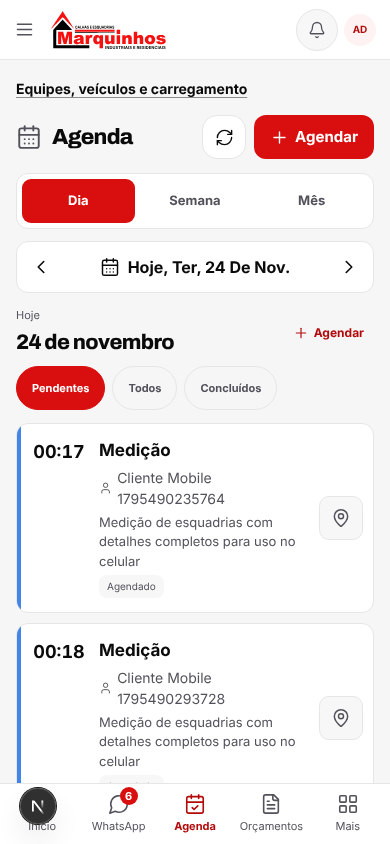
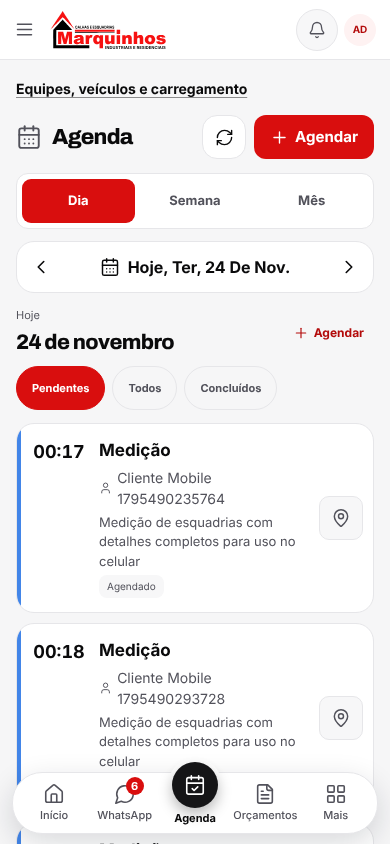
feat(ux): painel de destaque no Início e barra inferior flutuante no celular
- Início: painel escuro arredondado com saudação, vendas do mês, barras dos últimos 6 meses (dados reais) e dois atalhos em pílula
- barra inferior flutuante em pílula com o item ativo em círculo escuro e selo de não lidas
- cartões e blocos com cantos maiores; 'Ver tudo' em pílula
- ajustes: responder só ao passar o mouse/tocar, número do orçamento sem quebra, sem overflow a 320 px
Mantém logo original, fundo branco e vermelho da marca.

Claude-Session: https://claude.ai/code/session_019r53HgSe1yoioPFHkHVqRt

Changed region(s): [[0.0308, 0.8934, 0.9846, 1.0]]

diff --git a/app/mobile.css b/app/mobile.css
@@ -229,14 +229,14 @@
  .mobile-home .mh-date { margin: 4px 0 16px; color: var(--text-muted); font-size: 16px; }
  .mh-kpis { display: grid; grid-template-columns: repeat(2,minmax(0,1fr)); gap: 10px; }
  .mh-kpi { display: flex; align-items: center; gap: 8px; min-width: 0; padding: 10px; border: 1px solid var(--border); border-radius: 14px; background: var(--surface); }
- .mh-kpi-icon { display: inline-flex; align-items: center; justify-content: center; width: 40px; height: 40px; border-radius: 12px; flex-shrink: 0; }
+ .mh-kpi-icon { display: inline-flex; align-items: center; justify-content: center; width: 38px; height: 38px; border-radius: 12px; flex-shrink: 0; }
  .mh-kpi-icon[data-tone=success] { background: var(--success-soft); color: var(--success-text); }
  .mh-kpi-icon[data-tone=info] { background: var(--info-soft); color: var(--info-text); }
  .mh-kpi-icon[data-tone=warning] { background: var(--warning-soft); color: var(--warning-text); }
  .mh-kpi-icon[data-tone=violet] { background: #F0EBFF; color: #5B3FB5; }
  .mh-kpi-text { display: flex; flex-direction: column; min-width: 0; line-height: 1.2; }
  .mh-kpi-text small { font-size: 13px; color: var(--text); font-weight: 500; }
- .mh-kpi-text strong { font-size: clamp(16px,4.7vw,19px); font-weight: 800; letter-spacing: -.02em; font-variant-numeric: tabular-nums; white-space: nowrap; overflow: hidden; text-overflow: ellipsis; }
+ .mh-kpi-text strong { font-size: clamp(15px,4.4vw,17px); font-weight: 800; letter-spacing: -.02em; font-variant-numeric: tabular-nums; white-space: nowrap; overflow: hidden; text-overflow: ellipsis; }
  .mh-kpi-text em { font-style: normal; font-size: 12px; color: var(--text-muted); white-space: nowrap; overflow: hidden; text-overflow: ellipsis; }
  .mh-title { display: flex; align-items: center; gap: 8px; margin: 22px 0 10px; font-size: 18px; font-weight: 700; letter-spacing: -.01em; }
  .mh-title svg { color: var(--text-muted); }
@@ -318,4 +318,56 @@
 @media screen and (max-width: 767px) {
  .mh-list > li, .mh-event { min-width: 0; max-width: 100%; }
  .mh-kpis > a, .mh-actions > a, .mh-stages > a { min-width: 0; }
+}
+
+/* ===== Estilo "app": painel de destaque escuro, cartões bem arredondados e barra inferior flutuante ===== */
+@media screen and (max-width: 767px) {
+ /* Painel de destaque do Início */
+ .mh-hero { margin: -18px -16px 18px; padding: 20px 16px 16px; border-radius: 0 0 28px 28px; color: #fff; background: linear-gradient(180deg, #2a2b2e 0%, #151517 100%); }
+ .mobile-home .mh-hero .mh-greeting { font-size: 22px; line-height: 28px; font-weight: 700; color: #fff; }
+ .mobile-home .mh-hero .mh-date { margin: 2px 0 16px; font-size: 14px; color: rgb(255 255 255 / .62); }
+ .mh-hero-label { font-size: 13px; line-height: 18px; color: rgb(255 255 255 / .62); }
+ .mh-hero-value { margin-top: 2px; font-size: 34px; line-height: 40px; font-weight: 800; letter-spacing: -.03em; font-variant-numeric: tabular-nums; }
+ .mh-hero-note { margin-top: 4px; font-size: 13px; line-height: 18px; color: rgb(255 255 255 / .62); }
+ .mh-bars { display: flex; align-items: flex-end; gap: 10px; height: 104px; margin: 16px 0 4px; }
+ .mh-bar-col { flex: 1; min-width: 0; height: 100%; display: flex; flex-direction: column; align-items: center; justify-content: flex-end; gap: 6px; }
+ .mh-bar-col > i { display: block; width: 100%; max-width: 28px; min-height: 6px; border-radius: 8px; background: rgb(255 255 255 / .28); }
+ .mh-bar-col[data-current=true] > i { background: var(--brand); }
+ .mh-bar-col > span { font-size: 11px; line-height: 14px; color: rgb(255 255 255 / .55); }
+ .mh-hero-actions { display: grid; grid-template-columns: 1fr 1fr; gap: 10px; margin-top: 16px; }
+ .mh-pill { display: inline-flex; align-items: center; justify-content: center; gap: 8px; min-height: 48px; padding: 0 12px; border-radius: 999px; background: #fff; color: #151517; font-size: 14px; font-weight: 700; white-space: nowrap; }
+ .mh-pill.is-primary { background: var(--brand); color: #fff; }
+
+ /* Cartões e blocos mais arredondados */
+ .app-content .card { border-radius: 20px; }
+ .mh-kpi, .mh-event, .mh-actions a, .mh-stages a { border-radius: 18px; }
+ .mh-kpi-icon { border-radius: 14px; }
+ .mh-section-head > a { padding: 0 14px; min-height: 36px; border: 1px solid var(--border); border-radius: 999px; background: var(--surface); font-size: 13px; }
+ .mobile-quote-workspace .quote-list-row, .mobile-appointment, .mobile-date-nav, .mobile-calendar { border-radius: 18px; }
+ .quote-row-icon { border-radius: 14px; }
+
+ /* Barra inferior flutuante, com o item ativo em círculo */
+ .mobile-bottom-bar { left: 12px; right: 12px; bottom: calc(10px + env(safe-area-inset-bottom)); height: 62px; padding: 4px 6px; border: 1px solid var(--border); border-radius: 30px; background: var(--surface); box-shadow: 0 10px 30px rgb(16 24 40 / .16); }
+ .mobile-bottom-bar a, .mobile-bottom-bar button { height: 54px; font-size: 11px; font-weight: 500; gap: 2px; }
+ .mobile-bottom-bar a[aria-current=page], .mobile-bottom-bar button[aria-expanded=true] { color: var(--text); font-weight: 700; }
+ .mobile-bottom-bar a[aria-current=page] .mobile-tab-icon { width: 46px; height: 46px; margin-top: -22px; border-radius: 50%; align-items: center; justify-content: center; background: #151517; color: #fff; box-shadow: 0 6px 14px rgb(0 0 0 / .28), 0 0 0 4px var(--surface); }
+ .mobile-bottom-bar a[aria-current=page] { justify-content: flex-end; padding-bottom: 4px; }
+ .app-content { padding-bottom: calc(100px + env(safe-area-inset-bottom)); }
+ .app-content > .mobile-inbox { height: calc(100dvh - 140px - env(safe-area-inset-bottom)); margin-bottom: calc(-100px - env(safe-area-inset-bottom)); }
+ .app-shell-root:has([data-chat-open=true]) .app-content > .mobile-inbox { margin-bottom: calc(-100px - env(safe-area-inset-bottom)); }
+ .quote-save-bar { bottom: calc(82px + env(safe-area-inset-bottom)); border-radius: 20px 20px 0 0; }
+ .app-content:has(.quote-save-bar) { padding-bottom: calc(176px + env(safe-area-inset-bottom)); }
+}
+@media screen and (max-width: 767px) {
+ .quote-row-number { white-space: nowrap; }
+ .quote-row-total { font-size: 15px; white-space: nowrap; }
+}
+@media screen and (max-width: 767px) {
+ .mh-hero-actions > .mh-pill { min-width: 0; padding: 0 10px; }
+ .mh-hero-value { overflow-wrap: anywhere; }
+}
+@media screen and (max-width: 359px) {
+ .mh-pill { font-size: 13px; gap: 0; white-space: normal; line-height: 1.15; text-align: center; }
+ .mh-pill svg { display: none; }
+ .mh-hero-value { font-size: 30px; }
 }

diff --git a/components/mobile-home.tsx b/components/mobile-home.tsx
@@ -6,6 +6,7 @@ import { CalendarCheck, CalendarPlus, ChevronRight, CircleDollarSign, FileText, 
 type TodayEvent = { id: string; source?: AgendaSource; title: string; starts_at: string; event_type: string; client_name?: string };
 export type MobileHomeProps = {
   name: string; greeting: string; dateLabel: string;
+  hero: { label: string; value: string; note: string; bars: { label: string; value: number; current: boolean }[] };
   kpis: { quotes: number; orders: number; today: number; receivable: string | null; receivableNote: string; leads: number };
   today: TodayEvent[];
   stages: { measure: number; production: number; install: number; done: number } | null;
@@ -15,7 +16,8 @@ const hhmm = (iso: string) => new Date(iso).toLocaleTimeString("pt-BR", { hour: 
 const TYPE: Record<string, string> = { medicao: "Medição", instalacao: "Instalação", visita: "Visita", reuniao: "Reunião", entrega: "Entrega" };
 
 /** Início no celular, na organização das referências: saudação, 4 indicadores, ações rápidas, agenda de hoje e pedidos em andamento. */
-export function MobileHome({ name, greeting, dateLabel, kpis, today, stages }: MobileHomeProps) {
+export function MobileHome({ name, greeting, dateLabel, hero, kpis, today, stages }: MobileHomeProps) {
+  const top = Math.max(1, ...hero.bars.map(b => b.value));
   const tiles = [
     { label: "Orçamentos", value: String(kpis.quotes), note: "pendentes", Icon: FileText, tone: "success", href: "/orcamentos" },
     { label: "Pedidos", value: String(kpis.orders), note: "em andamento", Icon: ShoppingCart, tone: "info", href: "/pedidos" },
@@ -32,8 +34,27 @@ export function MobileHome({ name, greeting, dateLabel, kpis, today, stages }: M
   ];
   return (
     <div className="mobile-only mobile-home">
-      <h1 className="mh-greeting">{greeting}, {name}</h1>
-      <p className="mh-date">{dateLabel}</p>
+      <section className="mh-hero" aria-label="Resumo do mês">
+        <h1 className="mh-greeting">{greeting}, {name}</h1>
+        <p className="mh-date">{dateLabel}</p>
+        <p className="mh-hero-label">{hero.label}</p>
+        <p className="mh-hero-value">{hero.value}</p>
+        <p className="mh-hero-note">{hero.note}</p>
+        {hero.bars.length > 0 && (
+          <div className="mh-bars" role="img" aria-label={hero.bars.map(b => `${b.label}: ${b.value.toLocaleString("pt-BR", { style: "currency", currency: "BRL" })}`).join("; ")}>
+            {hero.bars.map(b => (
+              <div key={b.label} className="mh-bar-col" data-current={b.current ? "true" : undefined}>
+                <i style={{ height: `${Math.max(6, Math.round((b.value / top) * 100))}%` }} />
+                <span>{b.label}</span>
+              </div>
+            ))}
+          </div>
+        )}
+        <div className="mh-hero-actions">
+          <Link href="/orcamentos/calhas" className="mh-pill is-primary"><Plus size={18} />Novo orçamento</Link>
+          <Link href="/medicoes" className="mh-pill"><CalendarPlus size={18} />Agendar medição</Link>
+        </div>
+      </section>
 
       <div className="mh-kpis">
         {tiles.map(({ label, value, note, Icon, tone, href }) => (

diff --git a/app/(crm)/dashboard/page.tsx b/app/(crm)/dashboard/page.tsx
@@ -83,6 +83,13 @@ export default async function Dashboard({ searchParams }: { searchParams?: Promi
     done: st.servicos_concluidos_mes ?? 0,
   } : null;
   const overdueReceivable = Number(d?.overdue_receivable ?? 0);
+  // Barras dos últimos 6 meses com vendas registradas (dados reais do relatório; sem dados, o gráfico some).
+  const monthNames = ["J", "F", "M", "A", "M", "J", "J", "A", "S", "O", "N", "D"];
+  const heroBars = ((d?.report?.monthly_sales ?? []) as { mes?: string; month?: string; total: number }[])
+    .map(m => ({ key: String(m.mes || m.month || ""), value: Number(m.total) || 0 }))
+    .filter(m => m.key.length >= 7)
+    .slice(-6)
+    .map(m => ({ label: monthNames[Number(m.key.slice(5, 7)) - 1] ?? "", value: m.value, current: m.key.startsWith(new Date().toISOString().slice(0, 7)) }));
 
   const overdueBadges = [
     (d?.overdue_receivable ?? 0) > 0 && { label:`${money(d.overdue_receivable)} a receber vencido(s)`, href:"/financeiro/receber", color:"bg-red-50 border-red-200 text-red-800", icon:AlertCircle },
@@ -102,6 +109,12 @@ export default async function Dashboard({ searchParams }: { searchParams?: Promi
     <div className="mx-auto max-w-[1500px]">
       {aba === "geral" && <MobileHome
         name={(profileName ?? "").split(" ")[0] || "equipe"} greeting={greeting} dateLabel={dateLabel}
+        hero={{
+          label: canViewFinancial ? "Vendas do mês" : "Orçamentos pendentes",
+          value: canViewFinancial ? money(vendas) : String(Number(d?.orcamentos_pendentes ?? d?.quotes_pending ?? 0)),
+          note: `${Number(d?.activeOrders ?? 0)} ${Number(d?.activeOrders ?? 0) === 1 ? "pedido" : "pedidos"} em andamento · ${todayEvents.length} ${todayEvents.length === 1 ? "compromisso" : "compromissos"} hoje`,
+          bars: canViewFinancial ? heroBars : [],
+        }}
         kpis={{ quotes: Number(d?.orcamentos_pendentes ?? d?.quotes_pending ?? 0), orders: Number(d?.activeOrders ?? 0), today: todayEvents.length, leads: Number(d?.leads_novos ?? 0),
           receivable: canViewFinancial ? money(receitas) : null, receivableNote: overdueReceivable > 0 ? `${money(overdueReceivable)} vencido` : "em aberto" }}
         today={todayEvents as never} stages={stages} />}

diff --git a/app/globals.css b/app/globals.css
@@ -720,3 +720,6 @@ input:focus, select:focus, textarea:focus { border-color: var(--brand); box-shad
 @media (max-width: 767px) { .wa-inbox .wa-empty-keys { display: none; } }
 .wa-inbox .wa-subtitle { min-width: 0; flex-wrap: nowrap; white-space: nowrap; }
 .wa-inbox .wa-subtitle > .wa-pill-warn { flex: none; }
+/* "Responder": no fluxo da linha de hora, só aparece ao passar o mouse ou tocar na bolha (não cobre o texto). */
+.wa-inbox .wa-reply { position: static; display: none; width: 28px; height: 18px; margin: 0 auto 0 0; opacity: 1; }
+.wa-inbox .wa-bubble:hover .wa-reply, .wa-inbox .wa-bubble[data-selected="true"] .wa-reply, .wa-inbox .wa-reply:focus-visible { display: inline-flex; }
